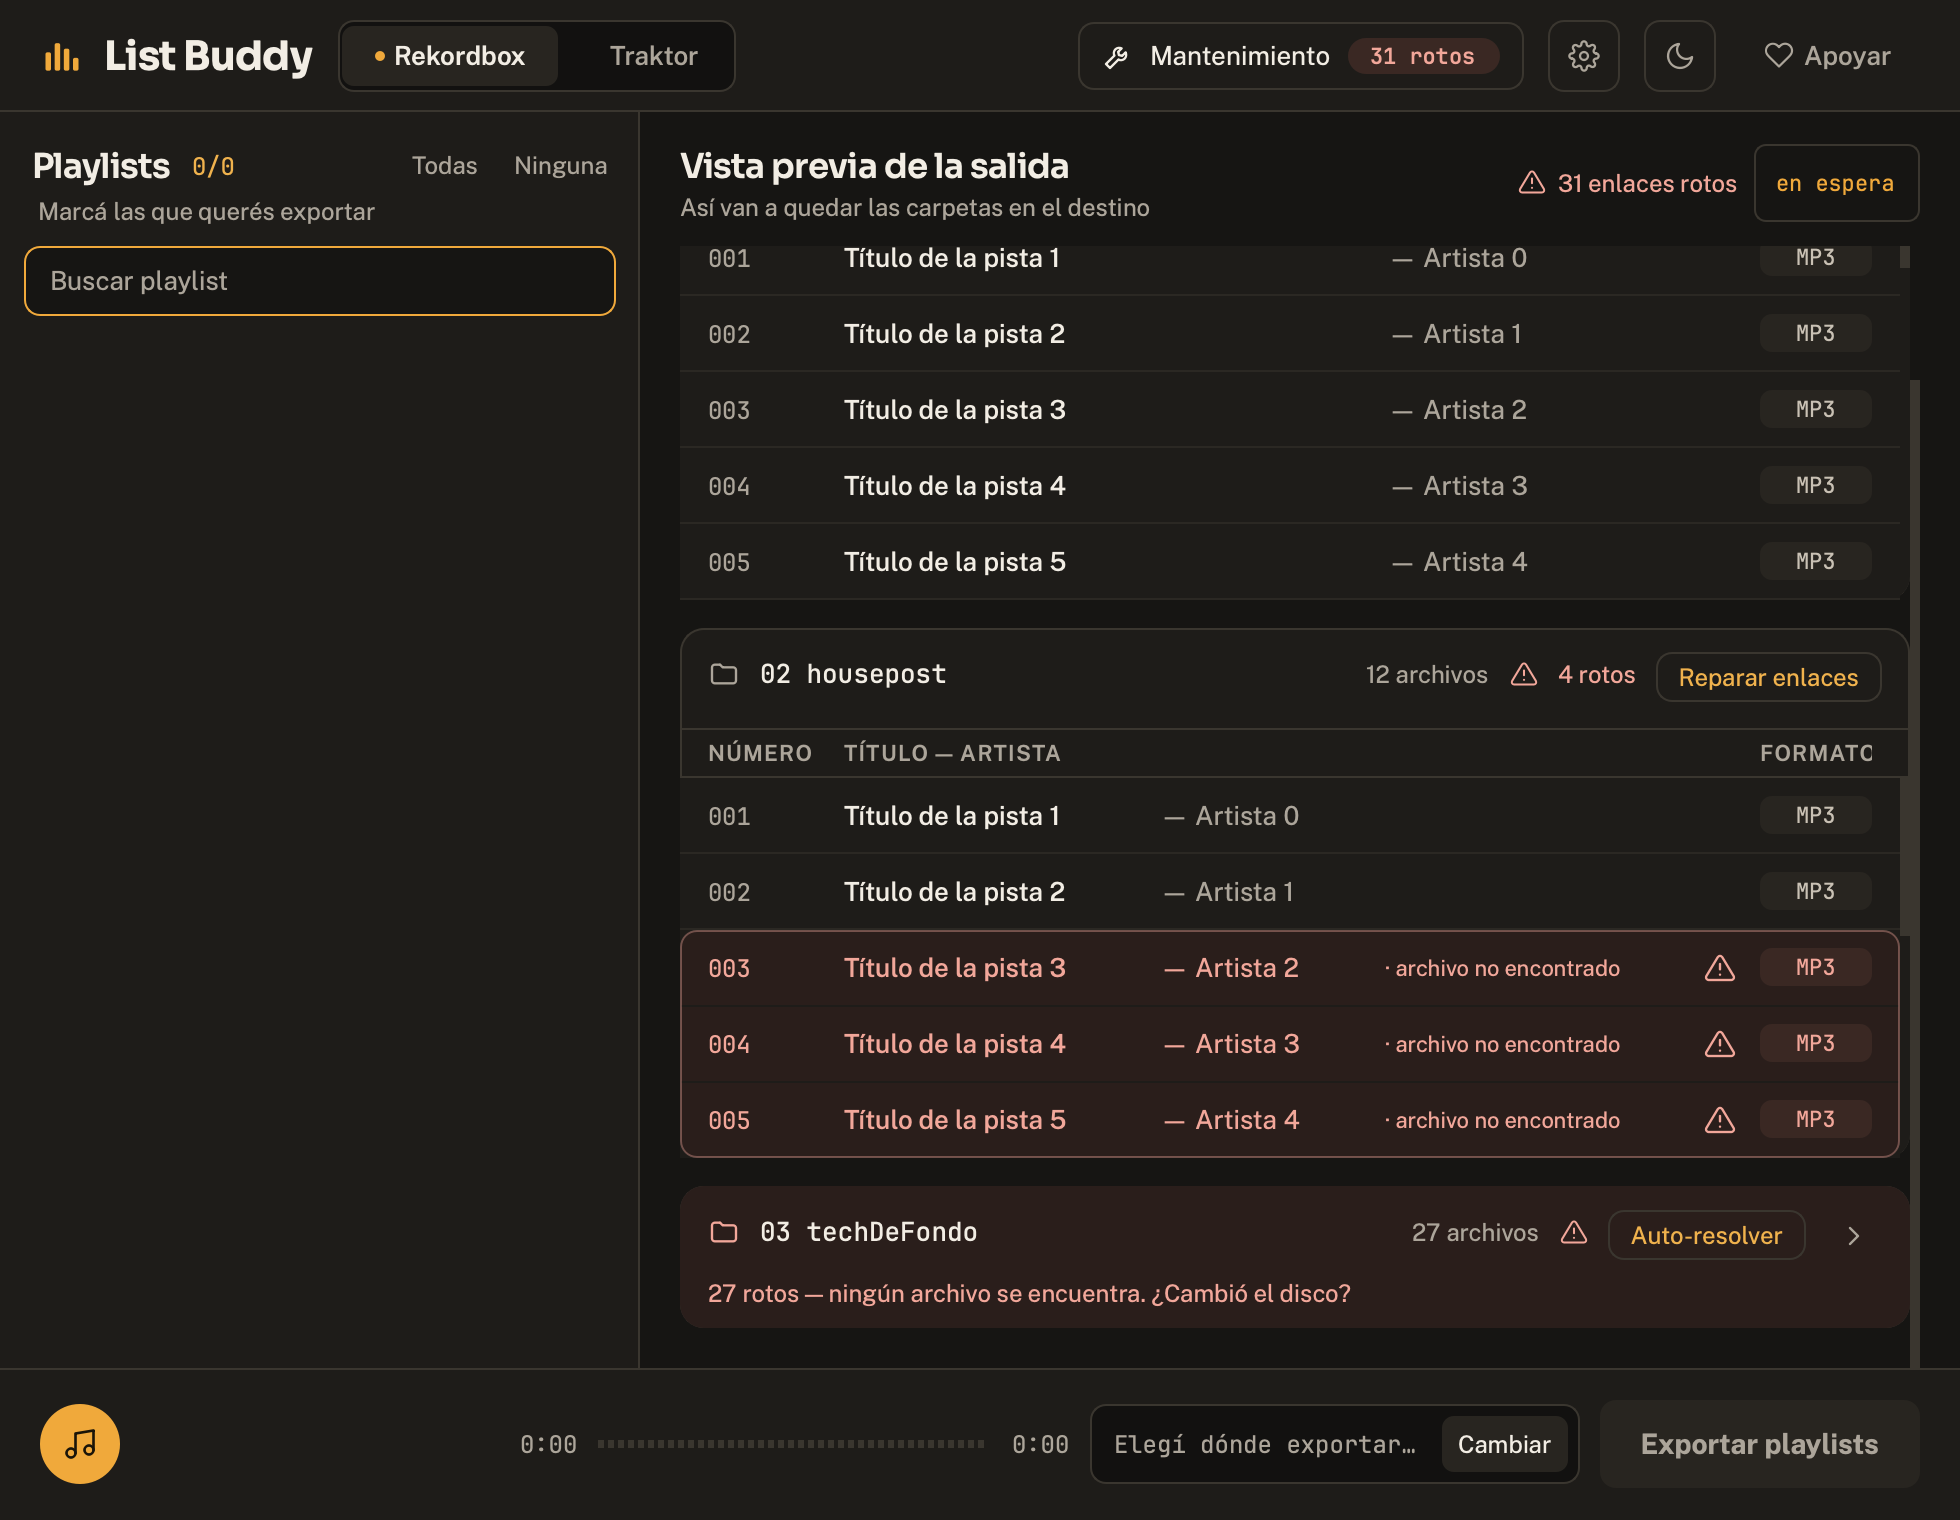
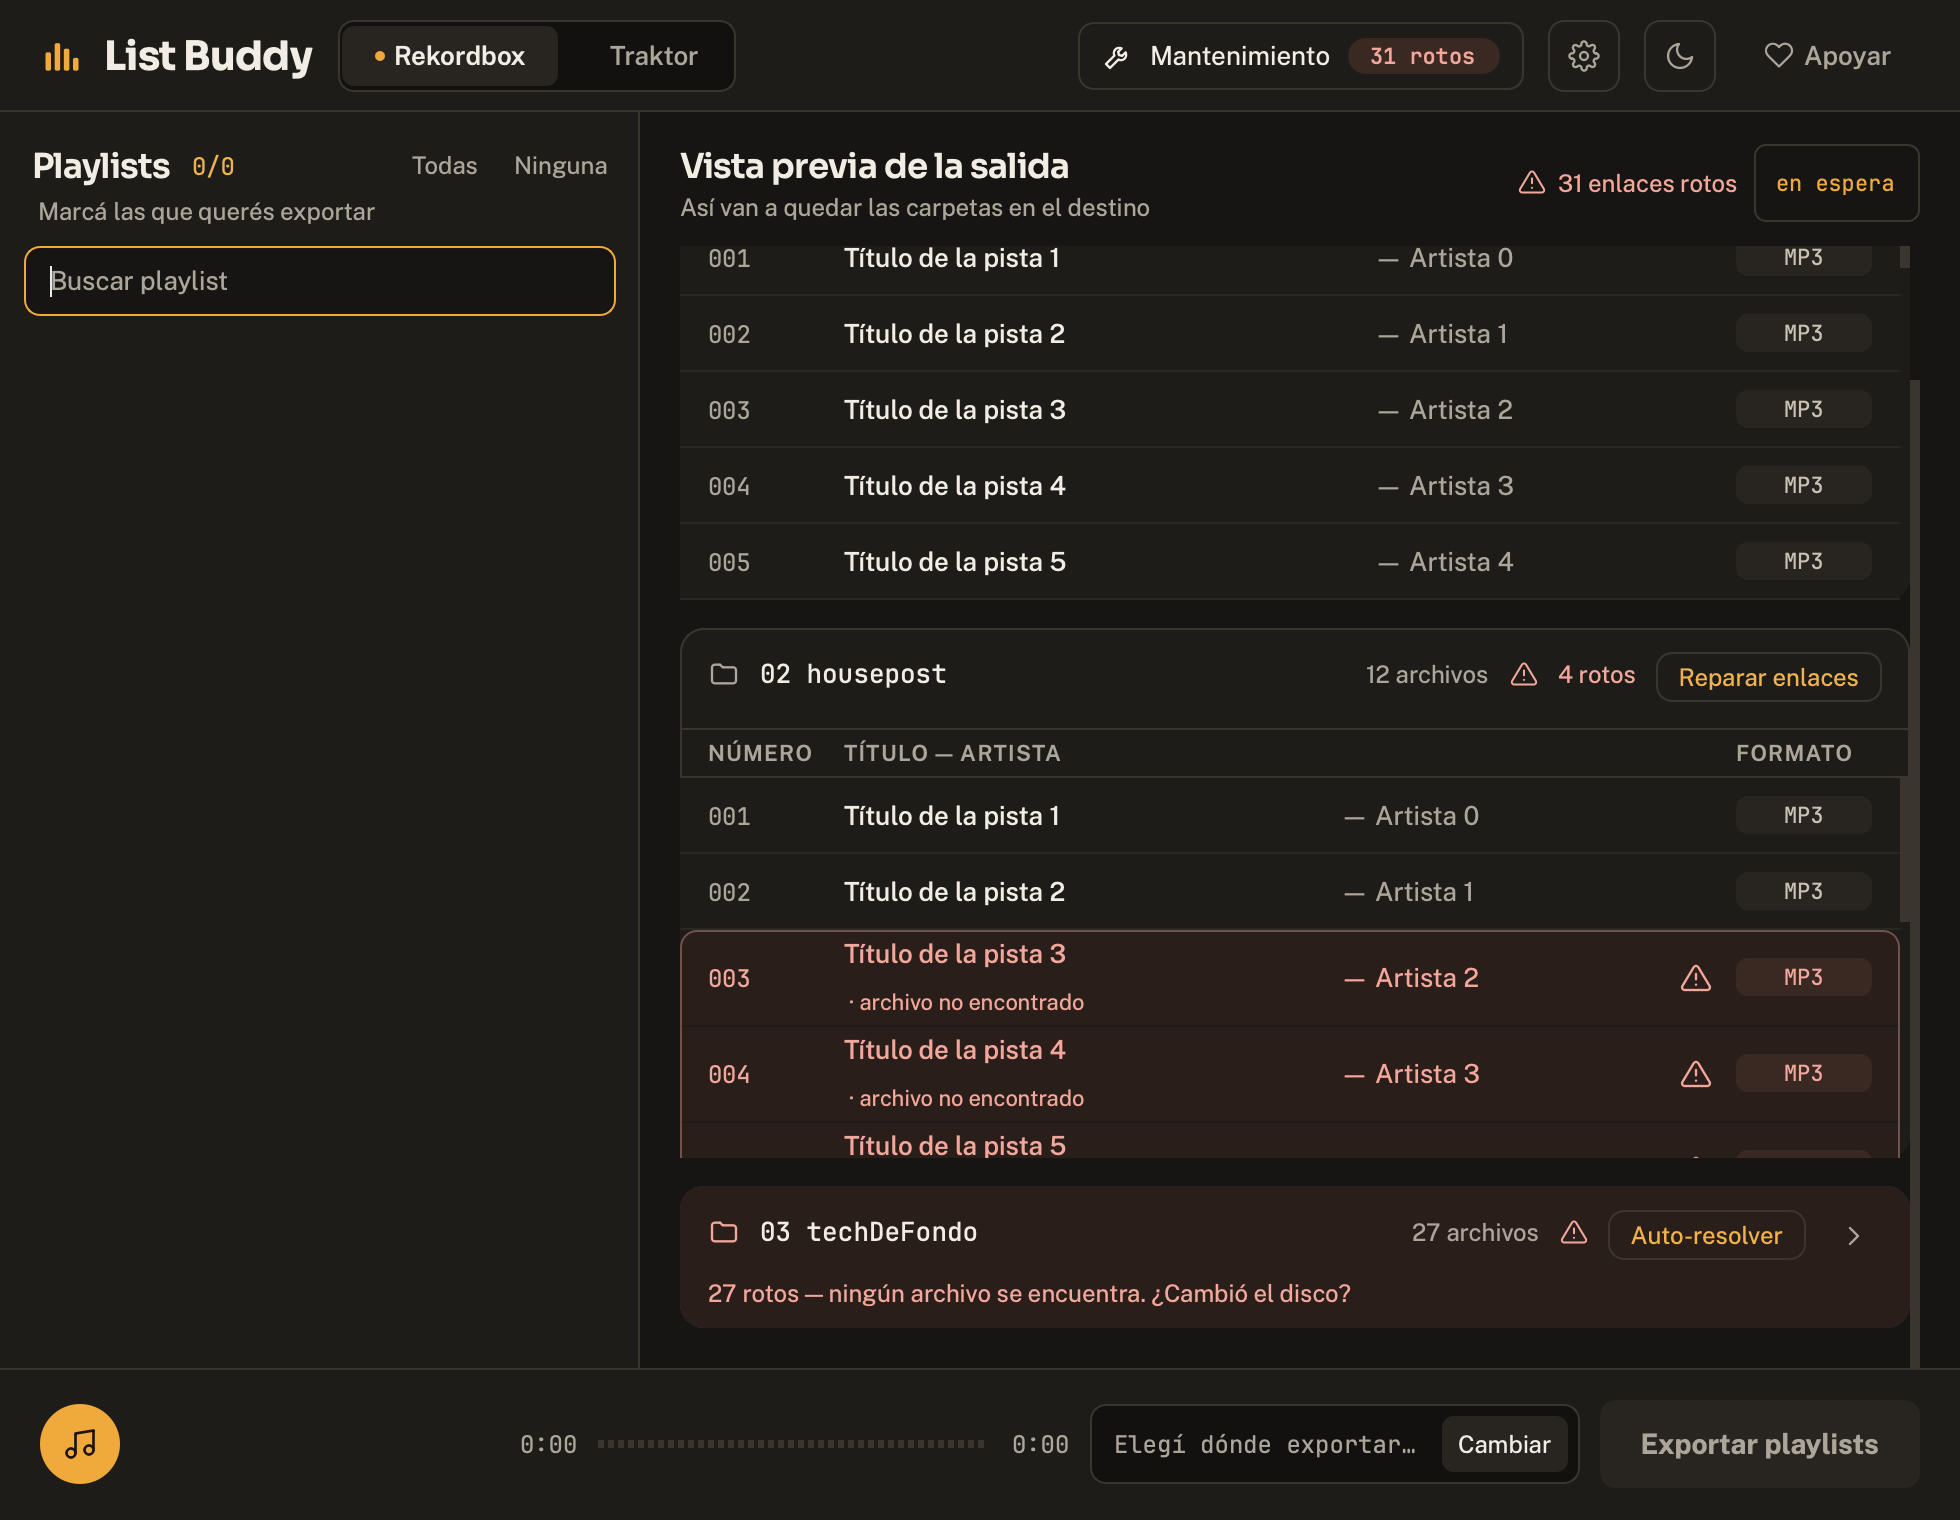
T-065: nota bajo el título en filas rotas (columnas alineadas), captura light 820, evidencia final

diff --git a/ui.py b/ui.py
@@ -57,7 +57,7 @@ from db import playlist_song_count as rb_song_count
 import icons
 from branding import APP_NAME
 from preview_card import (
-    CHIP_W, IDX_W, NOTE_W, ROW_GAP, WARN_W, PreviewGroupCard,
+    CHIP_W, IDX_W, ROW_GAP, WARN_W, PreviewGroupCard,
 )
 from row_blocks import ALL_BROKEN, MISSING_NOTE, NONE, block_positions, broken_notice_text, ext_chip_text
 from playlist_filter import matches
@@ -1570,7 +1570,7 @@ class MainWindow(QMainWindow):
         flag = "true" if missing else "false"
         row = FileRow(track.raw_path, track.exists, block_pos=block_pos)
         row.track = track
-        row.setMinimumHeight(38)
+        row.setMinimumHeight(48 if missing else 38)   # rota: título + nota en dos líneas
         if track.exists:
             row.clicked.connect(self._play_track)
         # Re-aplicar highlight si esta fila corresponde al track sonando
@@ -1593,15 +1593,24 @@ class MainWindow(QMainWindow):
         # Ignored: un título largo se recorta en vez de ensanchar la columna (T8).
         name_lbl = label("output_file_name", track.title)
         name_lbl.setSizePolicy(QSizePolicy.Policy.Ignored, QSizePolicy.Policy.Preferred)
-        rl.addWidget(name_lbl, 3)
+        if missing:
+            # La nota va bajo el título: así no le quita ancho a título/artista y las
+            # columnas alinean con las filas sanas.
+            cell = QVBoxLayout()
+            cell.setContentsMargins(0, 0, 0, 0)
+            cell.setSpacing(0)
+            cell.addWidget(name_lbl)
+            note = label("output_file_note", MISSING_NOTE)
+            note.setSizePolicy(QSizePolicy.Policy.Ignored, QSizePolicy.Policy.Preferred)
+            cell.addWidget(note)
+            rl.addLayout(cell, 3)
+        else:
+            rl.addWidget(name_lbl, 3)
         if track.artist:
             ar_lbl = label("output_file_artist", f"— {track.artist}")
             ar_lbl.setSizePolicy(QSizePolicy.Policy.Ignored, QSizePolicy.Policy.Preferred)
             rl.addWidget(ar_lbl, 2)
         if missing:
-            note = label("output_file_note", MISSING_NOTE)
-            note.setFixedWidth(NOTE_W)
-            rl.addWidget(note)
             warn = label("output_file_warn", "")
             warn.setFixedWidth(WARN_W)
             warn.setPixmap(icons.pixmap("warning", token(PlaylistCard._theme, "danger"), 16))
@@ -1609,7 +1618,7 @@ class MainWindow(QMainWindow):
             warn.setToolTip("Enlace roto")
             rl.addWidget(warn)
         elif reserve_note:
-            rl.addSpacing(NOTE_W + 2 * ROW_GAP + WARN_W)
+            rl.addSpacing(WARN_W + ROW_GAP)
         if track.ext:
             chip = label("output_file_ext", ext_chip_text(track.ext))
             chip.setFixedWidth(CHIP_W)

diff --git a/engram/plans/design/capture_t065.py b/engram/plans/design/capture_t065.py
@@ -86,7 +86,12 @@ def step_light_expand() -> None:
 def after_collapsed() -> None:
     ok = expand_broken()
     QTimer.singleShot(900, lambda: (to_bottom(), QTimer.singleShot(300, lambda: (
-        (shoot("light_980_expanded") if ok else None), done()))))
+        (shoot("light_980_expanded") if ok else None), step_light_820()))))
+
+
+def step_light_820() -> None:
+    win.resize(820, 640)
+    QTimer.singleShot(700, lambda: (shoot("light_820"), done()))
 
 
 def done() -> None:

diff --git a/preview_card.py b/preview_card.py
@@ -19,7 +19,6 @@ ROW_HEIGHT = 38
 # Anchos compartidos con las filas (ui._make_row_widget) para que la cabecera de columnas alinee.
 IDX_W = 56
 CHIP_W = 68
-NOTE_W = 150    # «· archivo no encontrado»
 WARN_W = 16
 ROW_GAP = 12
 ROWS_VISIBLE_HEIGHT = 190   # ≈ 5 filas de 38 px (D2): las demás se alcanzan con el scroll interno
